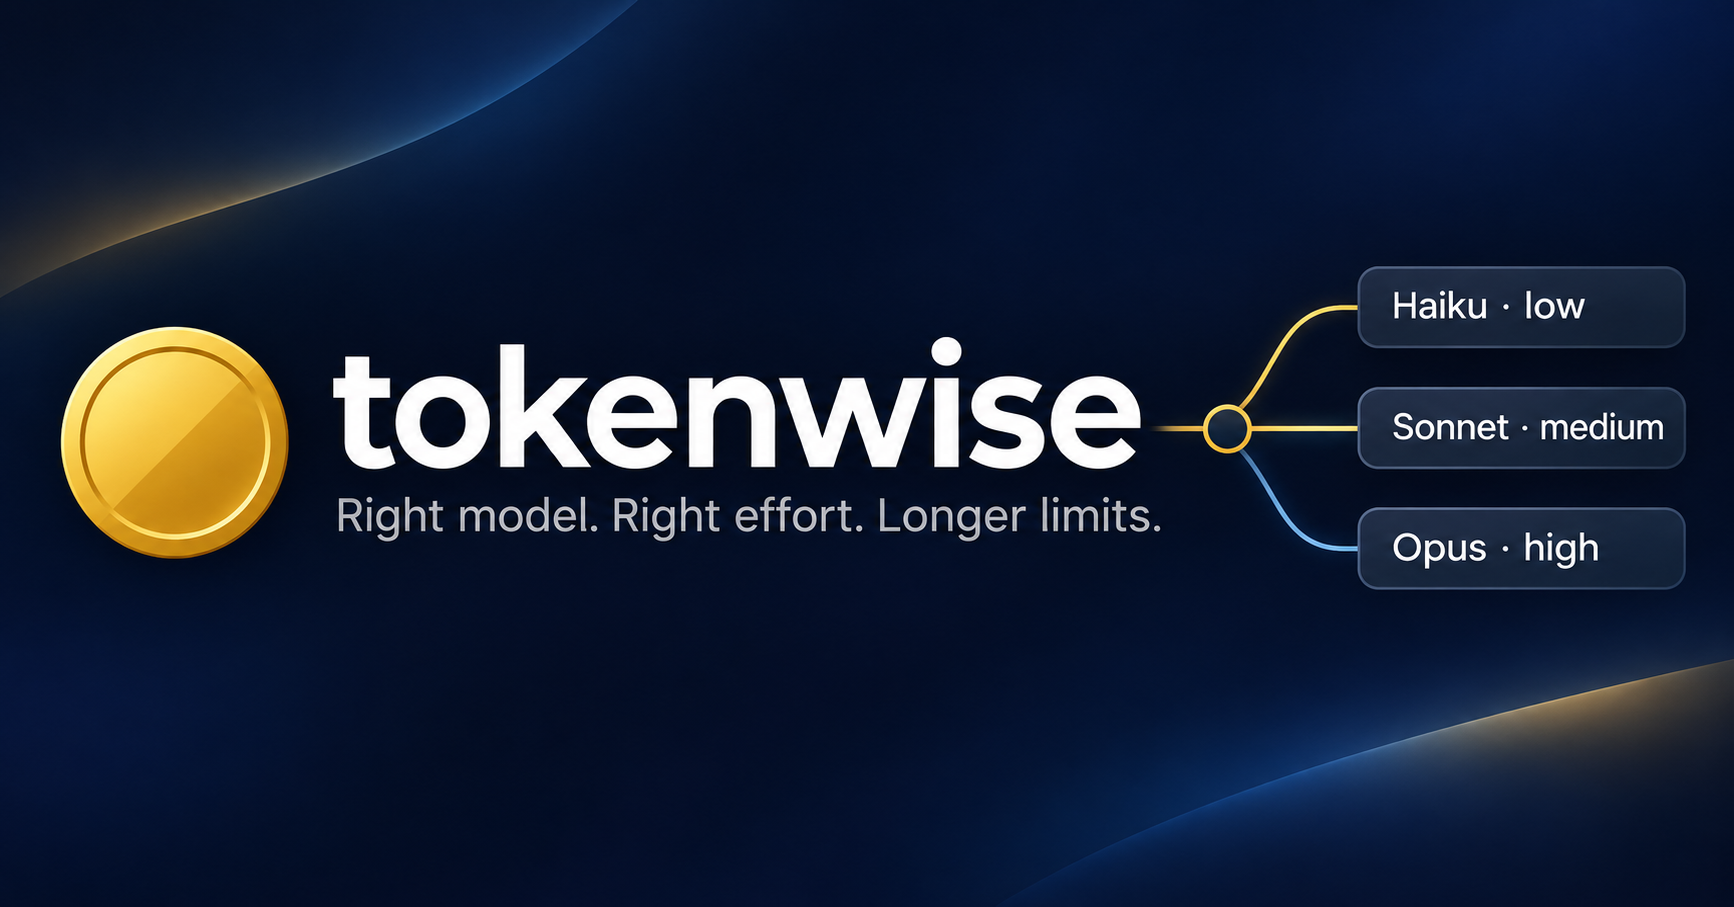
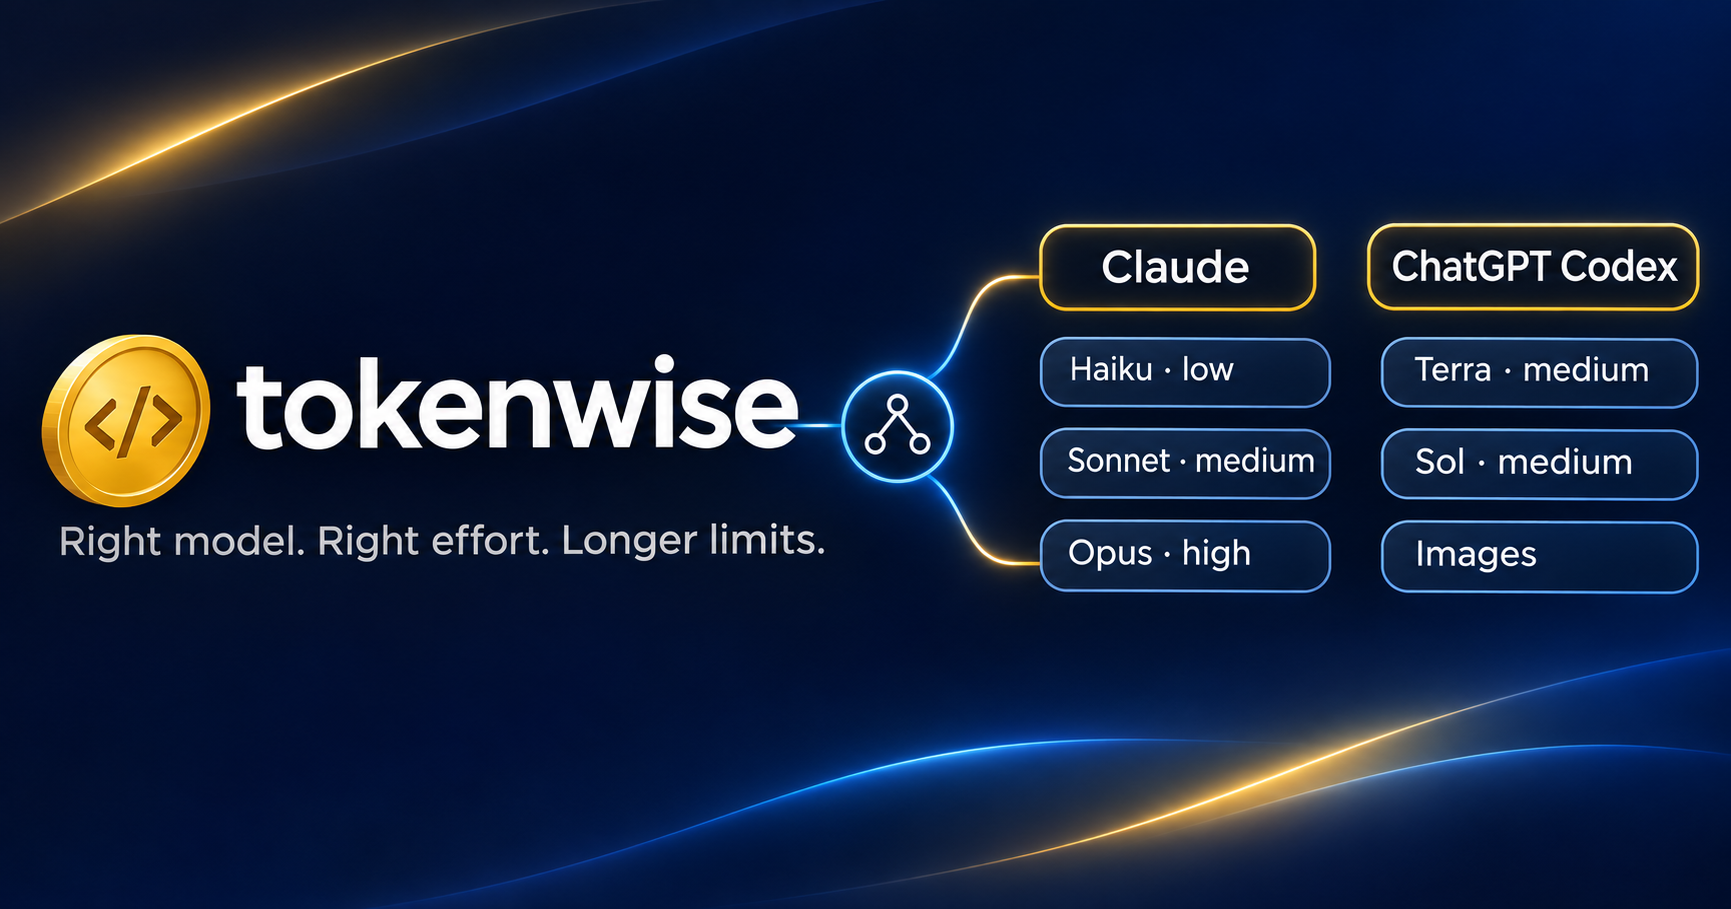
Add ChatGPT Codex to branding, new cover, ultracode rules
- Cover image regenerated via tokenwise's own Codex worker (terra/medium)
- README/description/badges: Claude + ChatGPT Codex
- SKILL: section 7 on ultracode/max-effort sessions

diff --git a/README.md b/README.md
@@ -2,13 +2,14 @@
 
 ![tokenwise: Right model. Right effort. Longer limits.](assets/tokenwise-cover.png)
 
-**Make your Claude Code limits last longer — without making the work worse.**
+**Make your Claude and ChatGPT limits last longer — without making the work worse.**
 
-tokenwise is a Claude Code skill + three subagents that pick the right **model** (Haiku, Sonnet, Opus) *and* the right **reasoning effort** (low → xhigh) for every piece of work. Grepping a repo doesn't need Opus. Debugging a race condition does. tokenwise makes that call for you.
+tokenwise is a Claude Code skill + three subagents that pick the right **model** (Claude Haiku, Sonnet, Opus, or ChatGPT Codex models via the Codex CLI) *and* the right **reasoning effort** (low → xhigh) for every piece of work. It spreads work across both your Claude and ChatGPT plans, and lets Claude generate images through Codex. Grepping a repo doesn't need Opus. Debugging a race condition does. tokenwise makes that call for you.
 
 [![License: MIT](https://img.shields.io/badge/License-MIT-yellow.svg)](LICENSE)
 ![Claude Code](https://img.shields.io/badge/Claude%20Code-skill%20%2B%20plugin-orange)
-![Models](https://img.shields.io/badge/models-Haiku%20%7C%20Sonnet%20%7C%20Opus-blue)
+![Claude](https://img.shields.io/badge/Claude-Haiku%20%7C%20Sonnet%20%7C%20Opus-blue)
+![ChatGPT Codex](https://img.shields.io/badge/ChatGPT%20Codex-Terra%20%7C%20Sol%20%7C%20images-green)
 
 *🇹🇷 Türkçe açıklama aşağıda.*
 
@@ -71,7 +72,7 @@ haiku/low → haiku/medium → sonnet/medium → sonnet/high → opus/high → o
 
 `max` is never used unless you ask for it.
 
-## 🤝 External workers: Codex & Gemini (optional)
+## 🤝 ChatGPT Codex & Gemini as extra workers (optional)
 
 Got the [OpenAI Codex CLI](https://github.com/openai/codex) or [Gemini CLI](https://github.com/google-gemini/gemini-cli) signed in? tokenwise can hand work to them, and that costs **zero Claude usage**:
 
@@ -140,6 +141,8 @@ Nothing to do: it triggers on multi-step tasks and whenever you mention limits, 
 
 **Why not `fork` subagents?** Forks always run on the parent's model, so they don't save anything.
 
+**Does it work with ultracode?** Yes. With `/effort ultracode` you've chosen maximum effort and automatic multi-agent orchestration, so tokenwise doesn't argue with that: it won't suggest lowering effort, but it still gives the purely mechanical worker pieces (search, log reading, boilerplate) to Haiku/Sonnet and sends images to Codex. Note: ultracode is expensive by design; tokenwise trims around it, it doesn't make it cheap.
+
 **Will it change my model behind my back?** No. Main-session model/effort changes are only suggested; you decide.
 
 ## Contributing
@@ -150,7 +153,7 @@ Better examples for the effort guide, new agent roles, real-world numbers on sav
 
 ## 🇹🇷 Türkçe
 
-**tokenwise, Claude Code limitlerini daha uzun süre idare etmeni sağlar, hem de işin kalitesini düşürmeden.**
+**tokenwise, Claude ve ChatGPT limitlerini daha uzun süre idare etmeni sağlar, hem de işin kalitesini düşürmeden.**
 
 Her iş parçası için iki karar verir:
 - **Hangi model?** Arama ve log okuma Haiku'ya, normal kodlama Sonnet'e, mimari ve zor hatalar Opus'a gider.

diff --git a/skills/tokenwise/SKILL.md b/skills/tokenwise/SKILL.md
@@ -122,7 +122,16 @@ scripts/external.sh ask <codex|gemini> "<prompt>" [-m M] [-e E] # read-only ques
 - Don't use external workers for work that depends on this conversation's context or needs many tool calls in the repo; that stays with Claude.
 - Name them in the routing line, e.g. `codex (cover image), gemini (doc summary)`.
 
-## 7. Report briefly
+## 7. When ultracode (or another max-effort mode) is on
+
+If the session runs with `/effort ultracode` (xhigh effort + automatic multi-agent orchestration) or the user picked `max`, the user has deliberately chosen depth over savings. Then:
+
+- **Don't fight it:** never suggest lowering the main session's model or effort, and don't refuse to orchestrate.
+- **Still route the workers:** when the orchestration spawns subagents, give purely mechanical pieces (search, log reading, listing usages, boilerplate, running tests) to `haiku`/`sonnet` at `low`/`medium`. Keep design, root-cause and review pieces on Opus at the orchestration's effort.
+- **External workers still apply:** images always go to Codex; second opinions on high-stakes decisions can go to `codex sol/high`.
+- Mention once, briefly, that ultracode is the most expensive mode, only if the user asks about limits.
+
+## 8. Report briefly
 
 When you delegated work in a turn, add one short line to your reply, e.g.:
 `Model routing: haiku/low (search), opus/low (quick design check), sonnet/high (6-file refactor), codex (OG image); main: opus/medium.`
